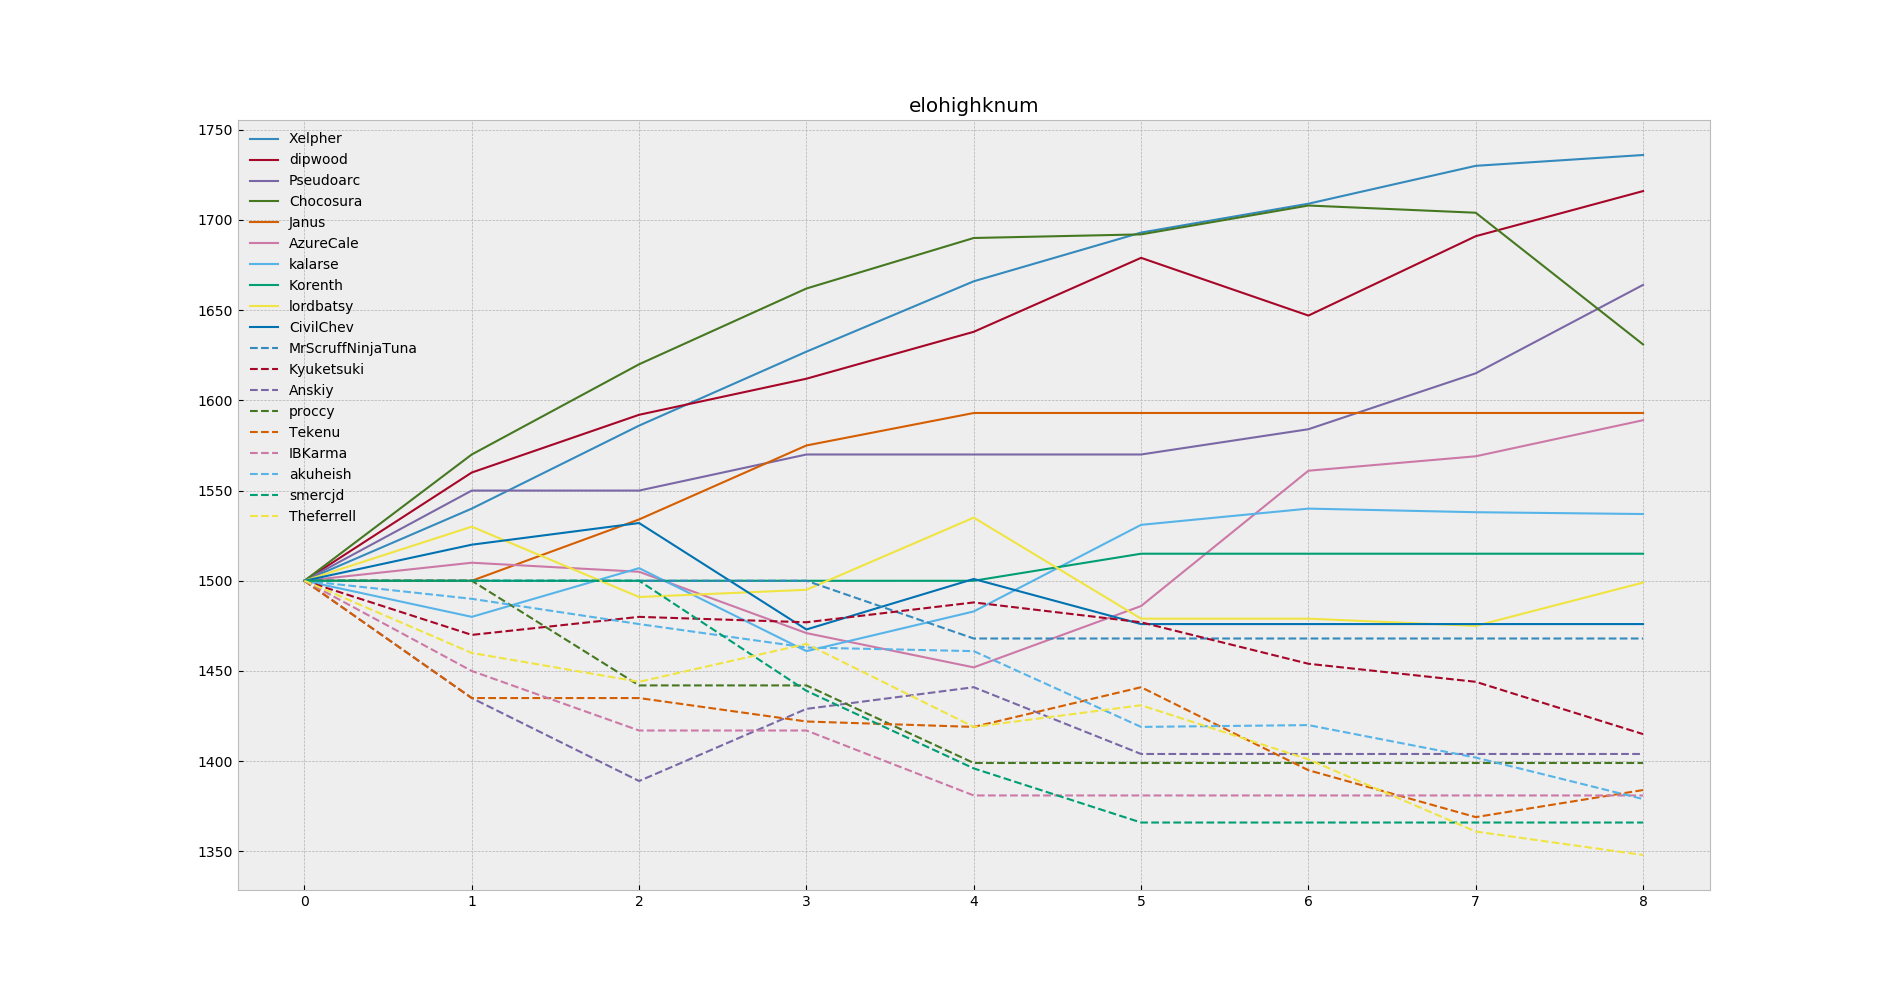
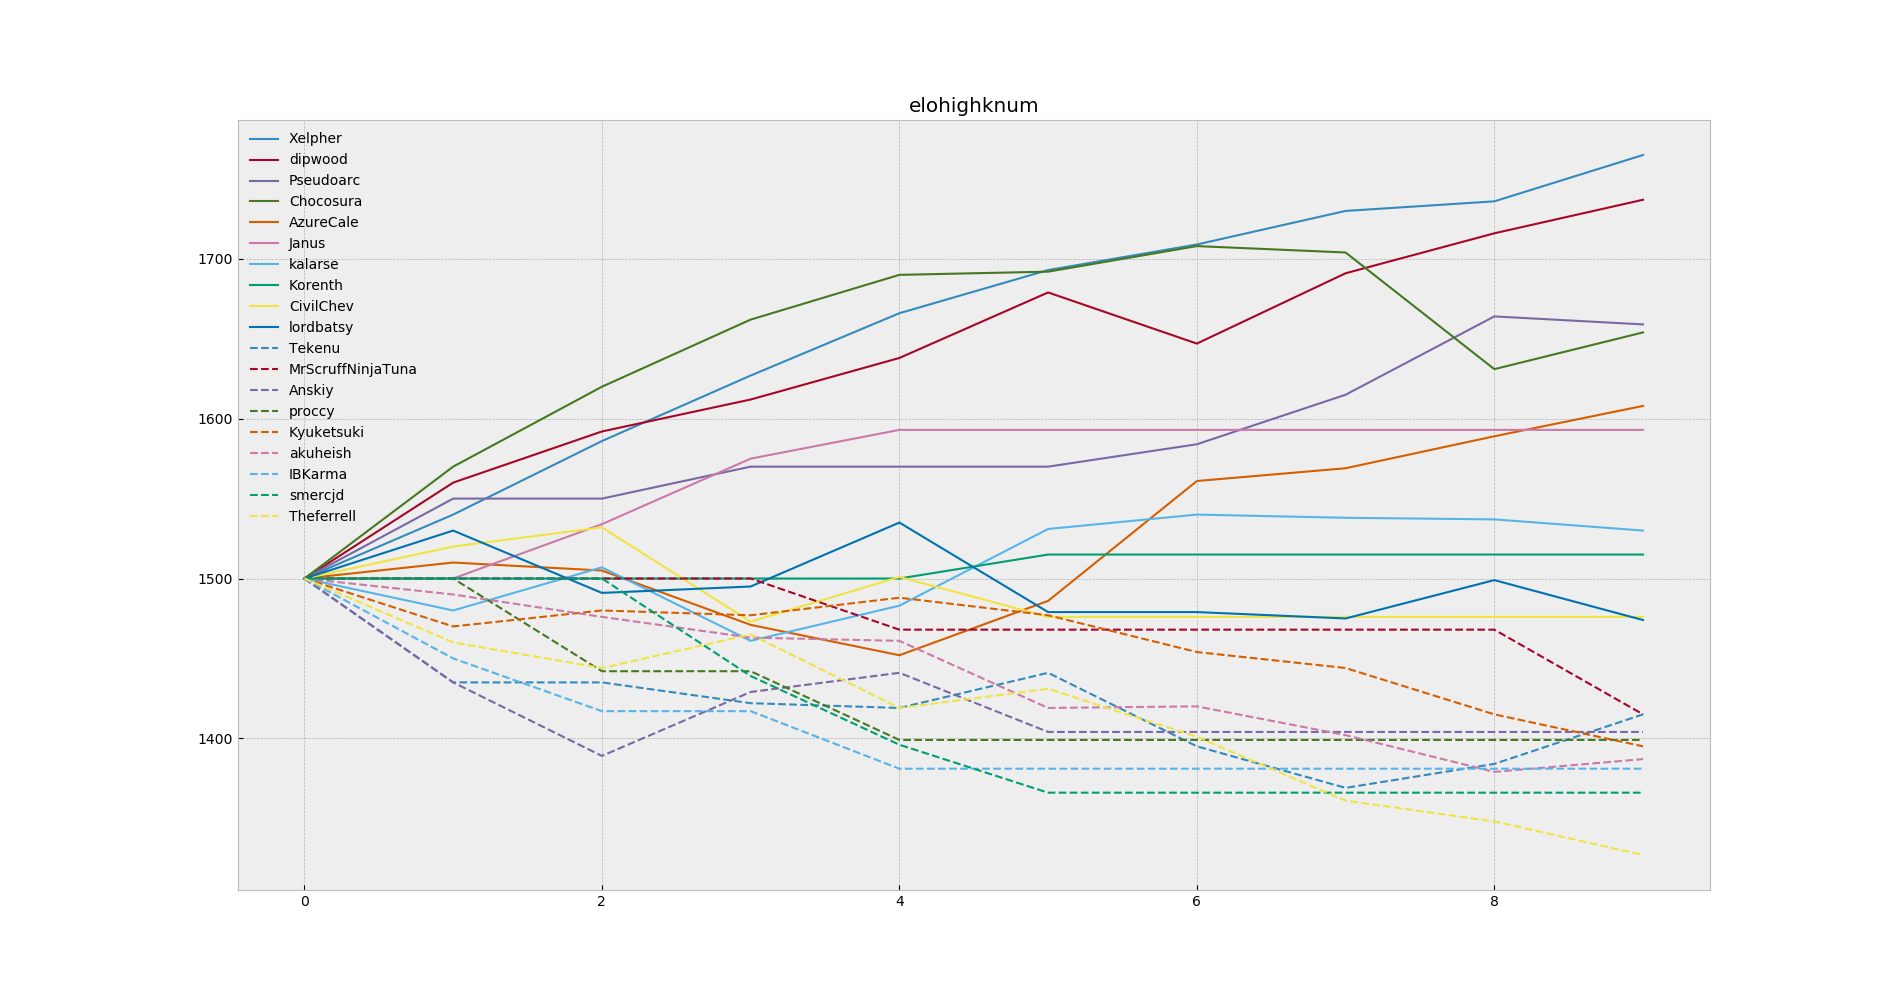
week 9 added

diff --git a/races.py b/races.py
@@ -28,5 +28,9 @@ races = [
         {"finishers": ["Pseudoarc","dipwood", "Xelpher", "AzureCale", "lordbatsy", "kalarse", "Tekenu"],
          "forfeits": ["Chocosura", "akuheish", "Theferrell", "Kyuketsuki"],
          "nonparticipants": [],
-         "times": ['01:38:44', '01:43:25', '01:46:14', '01:52:38', '01:53:46', '02:10:16', '02:36:32']}
+         "times": ['01:38:44', '01:43:25', '01:46:14', '01:52:38', '01:53:46', '02:10:16', '02:36:32']},
+        {"finishers": ["Xelpher", "dipwood", "Chocosura", "AzureCale", "Pseudoarc", "Tekenu", "kalarse", "akuheish", "lordbatsy", "Kyuketsuki", "Theferrell"],
+         "forfeits": ["MrScruffNinjaTuna"],
+         "nonparticipants": [],
+         "times": ['01:14:50', '01:18:57', '01:24:06', '01:27:40', '01:34:30', '01:36:17', '01:39:51', '1:40:52', '1:48:08', '01:49:28', '02:06:23']}
         ]
